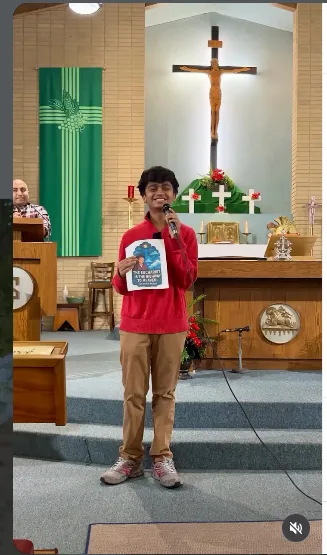
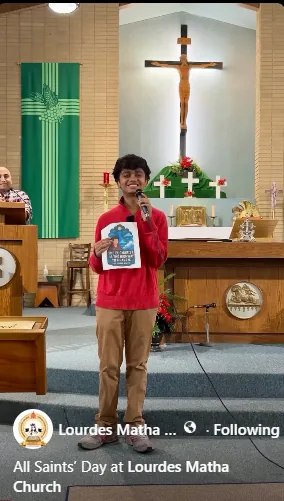
Replace Trunk or Treat video cover with updated screenshot on both cards

diff --git a/index.html b/index.html
@@ -99,7 +99,7 @@
         <div class="section-heading compact"><p class="eyebrow">November 1, 2026 · Parish memories</p><h2 id="parish-highlights-title">Celebrating our parish family</h2><p>Thank you to our children, families and volunteers for making Holyween and Trunk or Treat such a joyful day.</p></div>
         <div class="parish-highlights-grid">
             <article class="parish-highlight"><a class="parish-highlight-image " href="https://www.instagram.com/p/DfP1szeNg4G/" target="_blank" rel="noopener noreferrer" aria-label="View Holyween 2026 highlights"><img src="images/welcome-community-2026.webp" alt="Our parish children dressed as saints with families and the parish priest." loading="lazy" decoding="async"></a><div class="parish-highlight-copy"><p class="eyebrow">Photos</p><h3>Holyween 2026</h3><p>Our children brought the saints to life in a joyful celebration of faith.</p><div class="event-highlight-actions"><a href="https://www.instagram.com/p/DfP1szeNg4G/" target="_blank" rel="noopener noreferrer" aria-label="View Holyween 2026 on Instagram"><i class="fa-brands fa-instagram" aria-hidden="true"></i> View on Instagram ↗</a><a href="https://www.facebook.com/photo/?fbid=122351411198221972&amp;set=a.122170327202221972" target="_blank" rel="noopener noreferrer" aria-label="View Holyween 2026 on Facebook"><i class="fa-brands fa-facebook" aria-hidden="true"></i> View on Facebook ↗</a></div></div></article>
-            <article class="parish-highlight"><a class="parish-highlight-image parish-highlight-video" href="https://www.instagram.com/p/DfPq40dhE-_/" target="_blank" rel="noopener noreferrer" aria-label="Watch Trunk or Treat 2026 video on Instagram"><img src="images/events/trunk-or-treat-video-cover.webp" alt="Preview of the Trunk or Treat video in our church." width="327" height="555" loading="lazy" decoding="async"><span class="highlight-play" aria-hidden="true"><i class="fa-solid fa-play"></i></span><span class="highlight-video-label">Watch video</span></a><div class="parish-highlight-copy"><p class="eyebrow">Video highlights</p><h3>Trunk or Treat 2026</h3><p>Decorated trunks, sweet treats and plenty of smiles—thank you to everyone who joined and helped!</p><div class="event-highlight-actions"><a href="https://www.instagram.com/p/DfPq40dhE-_/" target="_blank" rel="noopener noreferrer" aria-label="View Trunk or Treat 2026 on Instagram"><i class="fa-brands fa-instagram" aria-hidden="true"></i> View on Instagram ↗</a><a href="https://www.facebook.com/reel/1667235404786008" target="_blank" rel="noopener noreferrer" aria-label="View Trunk or Treat 2026 on Facebook"><i class="fa-brands fa-facebook" aria-hidden="true"></i> View on Facebook ↗</a></div></div></article>
+            <article class="parish-highlight"><a class="parish-highlight-image parish-highlight-video" href="https://www.instagram.com/p/DfPq40dhE-_/" target="_blank" rel="noopener noreferrer" aria-label="Watch Trunk or Treat 2026 video on Instagram"><img src="images/events/trunk-or-treat-video-cover.webp?v=20261102-v2" alt="Preview of the Trunk or Treat video in our church." width="284" height="501" loading="lazy" decoding="async"><span class="highlight-play" aria-hidden="true"><i class="fa-solid fa-play"></i></span><span class="highlight-video-label">Watch video</span></a><div class="parish-highlight-copy"><p class="eyebrow">Video highlights</p><h3>Trunk or Treat 2026</h3><p>Decorated trunks, sweet treats and plenty of smiles—thank you to everyone who joined and helped!</p><div class="event-highlight-actions"><a href="https://www.instagram.com/p/DfPq40dhE-_/" target="_blank" rel="noopener noreferrer" aria-label="View Trunk or Treat 2026 on Instagram"><i class="fa-brands fa-instagram" aria-hidden="true"></i> View on Instagram ↗</a><a href="https://www.facebook.com/reel/1667235404786008" target="_blank" rel="noopener noreferrer" aria-label="View Trunk or Treat 2026 on Facebook"><i class="fa-brands fa-facebook" aria-hidden="true"></i> View on Facebook ↗</a></div></div></article>
         </div>
     </section>
 

diff --git a/events.html b/events.html
@@ -98,7 +98,7 @@
             </div>
         </article>
         <article class="event-card">
-            <a class="archive-video-cover" href="https://www.instagram.com/p/DfPq40dhE-_/" target="_blank" rel="noopener noreferrer" aria-label="Watch Trunk or Treat 2026 video on Instagram"><img class="event-poster" src="images/events/trunk-or-treat-video-cover.webp" alt="Preview of the Trunk or Treat video in our church." width="327" height="555" loading="lazy"><span class="highlight-play" aria-hidden="true"><i class="fa-solid fa-play"></i></span><span class="highlight-video-label">Watch video</span></a>
+            <a class="archive-video-cover" href="https://www.instagram.com/p/DfPq40dhE-_/" target="_blank" rel="noopener noreferrer" aria-label="Watch Trunk or Treat 2026 video on Instagram"><img class="event-poster" src="images/events/trunk-or-treat-video-cover.webp?v=20261102-v2" alt="Preview of the Trunk or Treat video in our church." width="284" height="501" loading="lazy"><span class="highlight-play" aria-hidden="true"><i class="fa-solid fa-play"></i></span><span class="highlight-video-label">Watch video</span></a>
             <div class="event-details">
                 <h2>Trunk or Treat</h2>
                 <div class="event-meta">
